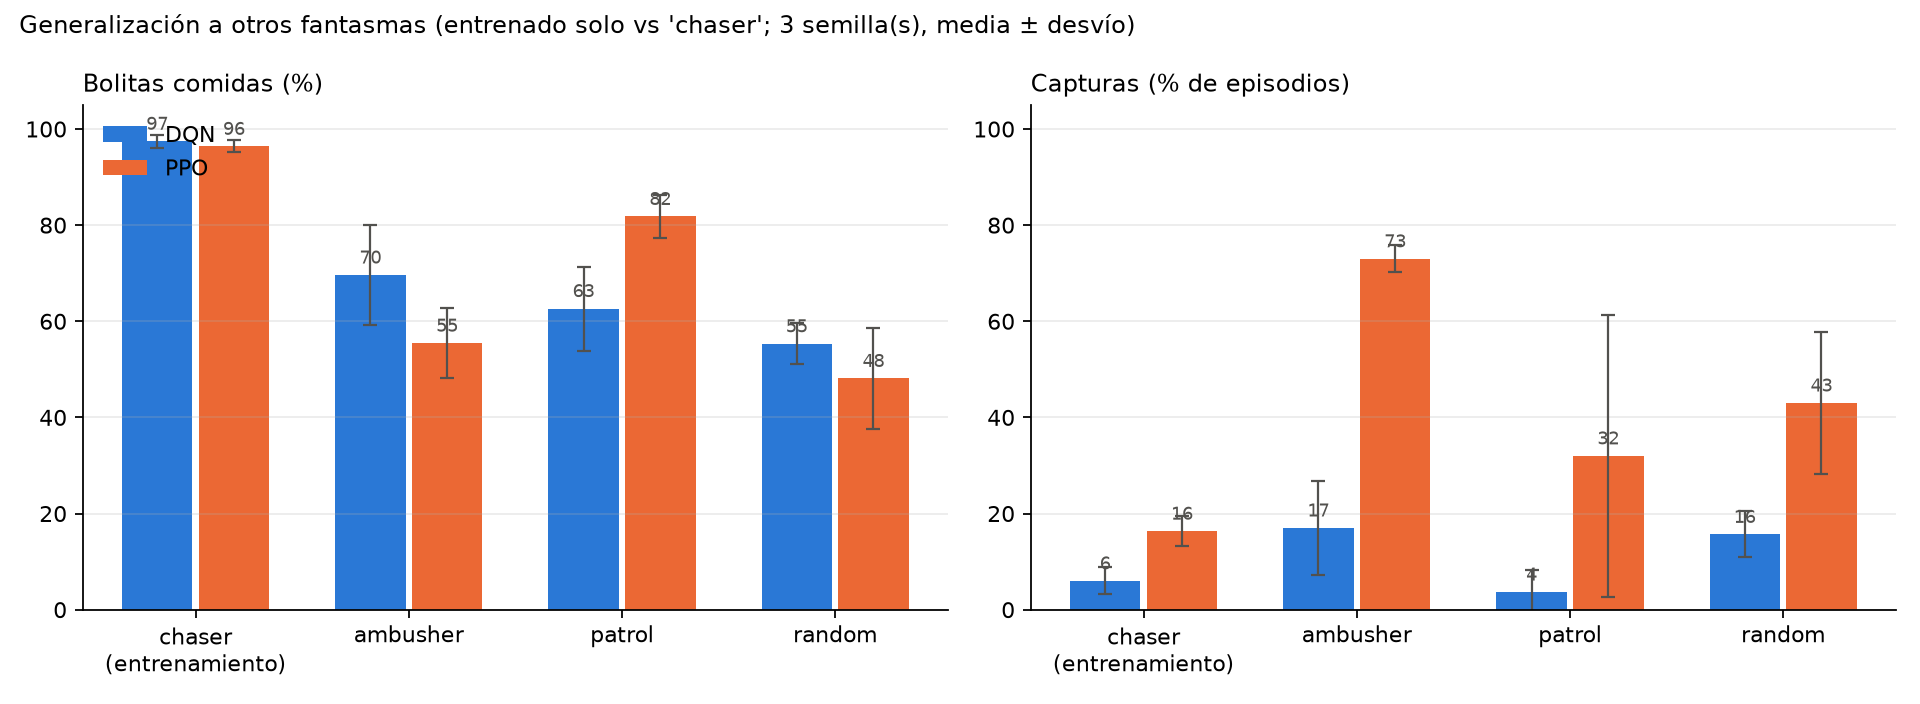
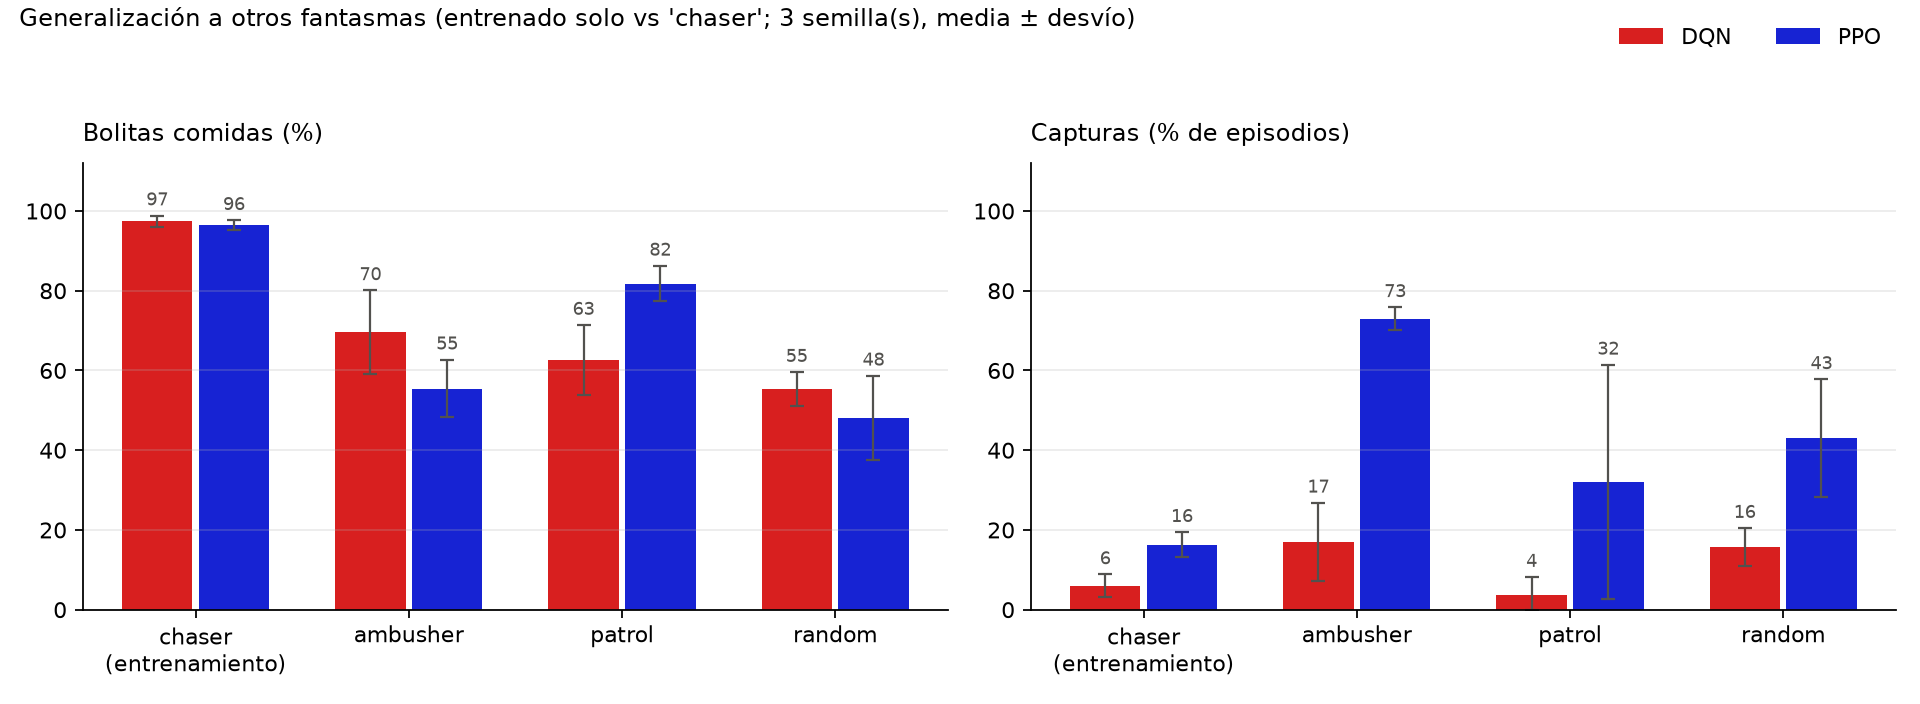
cambio colores, funcionalidad plot-only

diff --git a/Information/experiment_ghost_generalization.py b/Information/experiment_ghost_generalization.py
@@ -197,7 +197,7 @@ def print_table(summary: dict, n_seeds: int, n_eval: int) -> None:
 
 
 def plot(summary: dict, path: str, n_seeds: int) -> None:
-    colors = {"DQN": "#2a78d6", "PPO": "#eb6834"}  # azul / naranja (validados: CVD ΔE>24)
+    colors = {"DQN": "#D81F1F", "PPO": "#1723d3"}  # azul / naranja (validados: CVD ΔE>24)
     fig, axes = plt.subplots(1, 2, figsize=(12, 4.4), sharey=False)
     x = np.arange(len(EVAL_POLICIES))
     w = 0.36
@@ -208,25 +208,34 @@ def plot(summary: dict, path: str, n_seeds: int) -> None:
             means = [summary[algo][p][metric][0] for p in EVAL_POLICIES]
             stds = [summary[algo][p][metric][1] for p in EVAL_POLICIES]
             bars = ax.bar(
-                x + (k - 0.5) * w, means, w - 0.03, yerr=stds if n_seeds > 1 else None,
+                x + (k - 0.5) * w, means, w - 0.03,
+                # los % no pasan de [0, 100]: se recortan las barras de error a ese rango
+                yerr=[[min(s, m) for m, s in zip(means, stds)],
+                      [min(s, 100 - m) for m, s in zip(means, stds)]] if n_seeds > 1 else None,
                 color=colors.get(algo, "#888888"), label=algo, capsize=3,
                 error_kw=dict(ecolor="#52514e", lw=1),
             )
-            for b, v in zip(bars, means):
-                ax.text(b.get_x() + b.get_width() / 2, v + 1.5, f"{v:.0f}", ha="center",
+            for b, v, s in zip(bars, means, stds):
+                # el número va por encima del extremo superior de la barra de error
+                top = v + (min(s, 100 - v) if n_seeds > 1 else 0.0)
+                ax.text(b.get_x() + b.get_width() / 2, top + 1.5, f"{v:.0f}", ha="center",
                         va="bottom", fontsize=8, color="#52514e")
         ax.set_xticks(x)
         ax.set_xticklabels([f"{p}\n(entrenamiento)" if p == "chaser" else p for p in EVAL_POLICIES])
-        ax.set_title(title, loc="left", fontsize=11)
-        ax.set_ylim(0, 105)
+        ax.set_title(title, loc="left", fontsize=11, pad=10)
+        ax.set_ylim(0, 112)  # espacio extra arriba para barras de error + números
+        ax.set_yticks([0, 20, 40, 60, 80, 100])
         ax.spines[["top", "right"]].set_visible(False)
         ax.grid(axis="y", alpha=0.25)
-    axes[0].legend(frameon=False, loc="upper left")
+    # Leyenda a nivel figura, fuera de los ejes (no tapa barras)
+    handles, labels = axes[0].get_legend_handles_labels()
+    fig.legend(handles, labels, frameon=False, loc="upper right", ncol=len(labels),
+               bbox_to_anchor=(0.99, 0.99))
     fig.suptitle(
         f"Generalización a otros fantasmas (entrenado solo vs 'chaser'; {n_seeds} semilla(s), media ± desvío)",
-        fontsize=11, x=0.01, ha="left",
+        fontsize=11, x=0.01, y=0.99, ha="left",
     )
-    plt.tight_layout()
+    plt.tight_layout(rect=[0, 0, 1, 0.93])
     fig.savefig(path, dpi=160)
     plt.close(fig)
     print(f"Gráfico guardado en {path}")
@@ -242,7 +251,18 @@ def main() -> None:
     p.add_argument("--eval-episodes", type=int, default=100, help="episodios de evaluación por política de fantasma")
     p.add_argument("--smoke", action="store_true", help="prueba rápida (3000 pasos, 1 semilla, 10 episodios)")
     p.add_argument("--out-prefix", default="ghost_generalization", help="prefijo de los archivos de salida")
+    p.add_argument("--plot-only", action="store_true",
+                   help="no entrena: regenera tabla y gráfico desde <out-prefix>_results.json")
     args = p.parse_args()
+
+    if args.plot_only:
+        with open(f"{args.out_prefix}_results.json") as f:
+            saved = json.load(f)
+        summary = summarize(saved["raw"])
+        n_seeds, n_eval = saved["args"]["seeds"], saved["args"]["eval_episodes"]
+        print_table(summary, n_seeds, n_eval)
+        plot(summary, f"{args.out_prefix}_comparison.png", n_seeds)
+        return
     if args.smoke:
         args.timesteps, args.seeds, args.eval_episodes = 3_000, 1, 10
 
